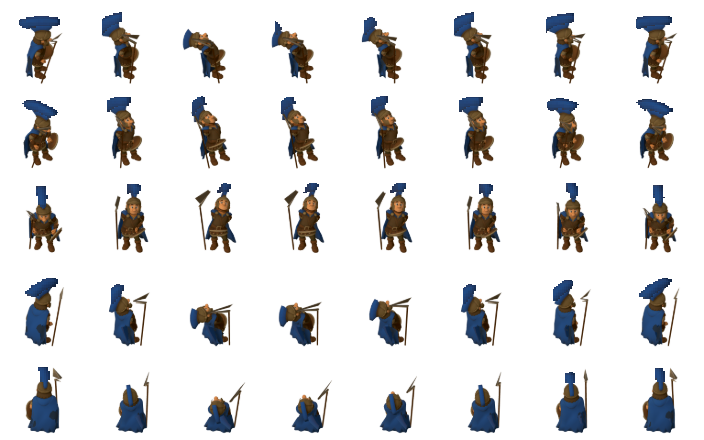
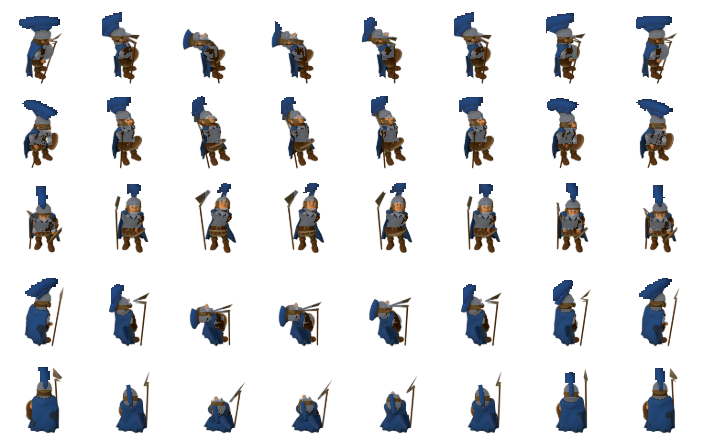
Soldaten in silberner Ruestung (Spielerwunsch zum Asterix-Look)
Helmbusch und Umhang standen schon (v177) - jetzt werden Helm und
Kuerass versilbert, wie bei den Roemern. tools/ruestung.mjs faerbt
die Lederflaechen der 18 Soldatenblaetter helligkeits-erhaltend auf
kuehles Stahlgrau um, aber nur in zwei ZONEN: Helmband direkt unter
dem Busch und mittiges Rumpfband. Die Zonen ankern am Busch bzw. an
den Fuessen statt an der Bbox (der erhobene Bogen streckte sie sonst
ins Gesicht); Gesicht, Haende, Beine, Schild und Waffenschaefte
bleiben Haut/Leder/Holz. Auf Spielzoom heben sich die Soldaten damit
deutlich von den braun gekleideten Siedlern ab.

Claude-Session: https://claude.ai/code/session_01NJiXwFpbq91ri9gPbhzERB

diff --git a/sw.js b/sw.js
@@ -6,7 +6,7 @@
 // Server längst die neue auslieferte. Beim Installieren wird zusätzlich am
 // HTTP-Cache vorbei geladen (cache:'reload'), sonst holt sich der neue
 // Serviceworker über die noch gültigen Cache-Header wieder die alten Bytes.
-const BUILD = 'v177';
+const BUILD = 'v178';
 const CACHE = 'neuland-' + BUILD;
 const FILES = [
   './', './index.html', './style.css', './manifest.webmanifest',
